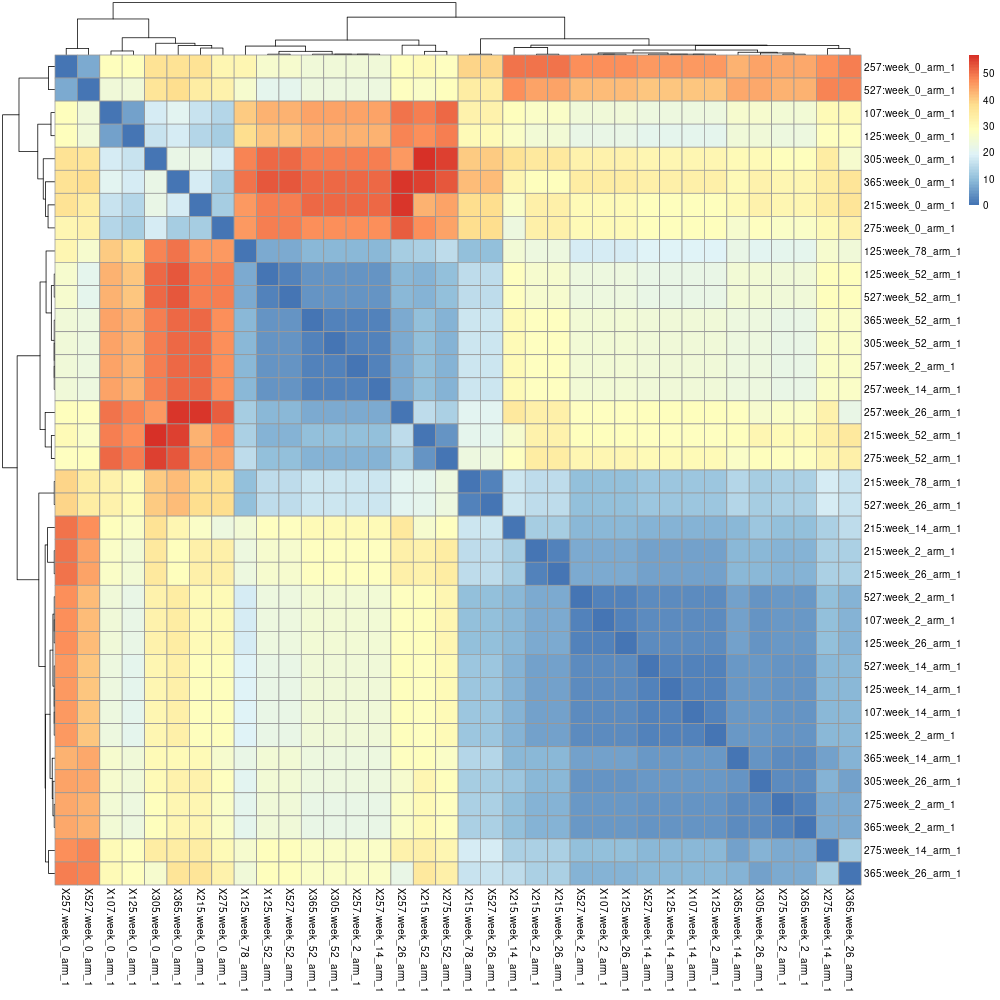
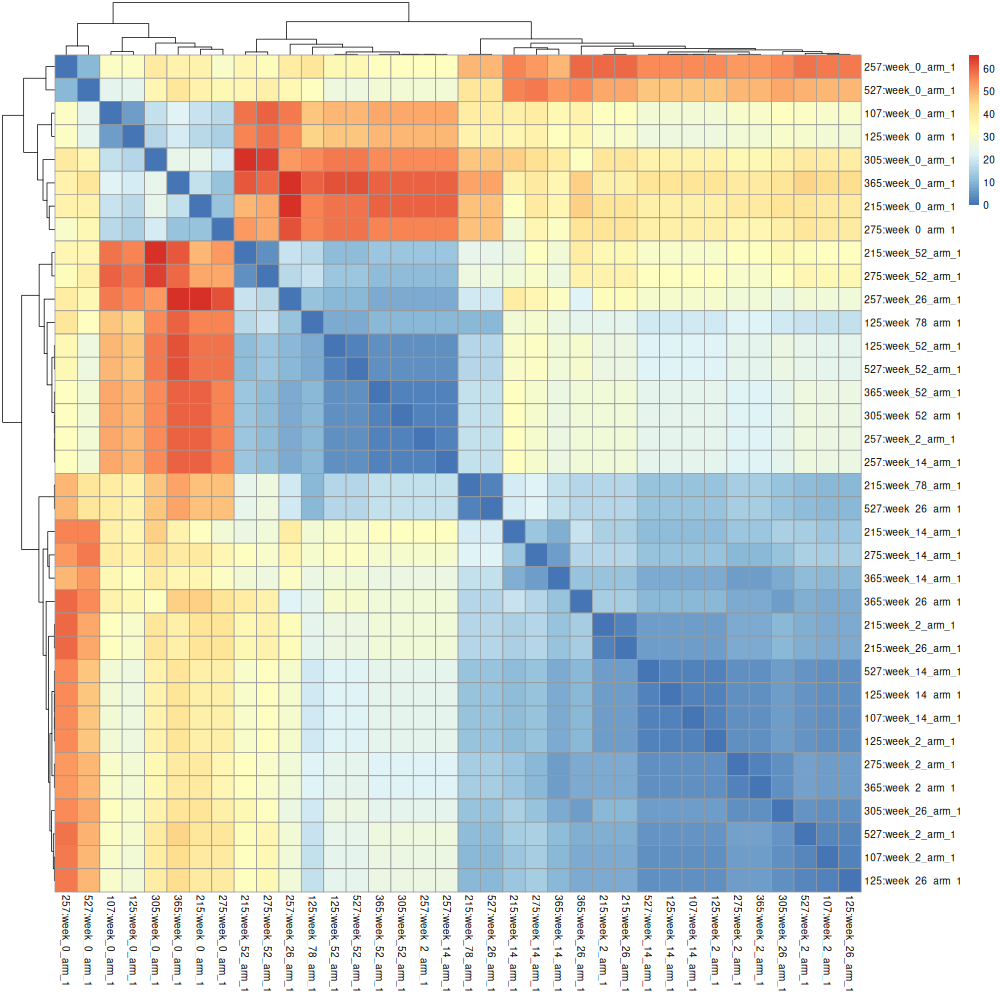
Update docs and share/r

diff --git a/docs/faq.md b/docs/faq.md
@@ -243,7 +243,7 @@ Frequently Asked Questions
 
     ```R
     # Load the matrix of Jaccard similarities from a text file
-    data <- as.matrix(read.table("matrix.txt", header = TRUE, row.names = 1))
+    data <- as.matrix(read.table("matrix.txt", header = TRUE, row.names = 1, check.names = FALSE))
     
     # Convert Jaccard similarity matrix to a dissimilarity (distance) matrix
     dissimilarity_matrix <- 1 - data
@@ -273,7 +273,7 @@ Frequently Asked Questions
      
     ```R
     # Load the matrix of Hamming distances from a text file
-    data <- as.matrix(read.table("matrix.txt", header = TRUE, row.names = 1))
+    data <- as.matrix(read.table("matrix.txt", header = TRUE, row.names = 1, check.names = FALSE))
     
     # Set n (extracted with --export option)
     n = 100
@@ -286,6 +286,32 @@ Frequently Asked Questions
     ```
 
     ##### last change 2024-04-15 by Manuel Rueda [:fontawesome-brands-github:](https://github.com/mrueda)
+
+??? faq "How can I convert a Hamming distance matrix to a standardized matrix??"
+
+    We recommed using `R` for this task. See example below:
+
+    Example `R` code:
+
+    ```R
+    # Load the matrix of Hamming distances from a text file
+    data <- as.matrix(read.table("matrix.txt", header = TRUE, row.names = 1, check.names = FALSE))
+
+    # Step 2: Extract numeric matrix
+    numeric_matrix <- as.matrix(data)  # Assumes non-numeric first column is already set as row.names
+
+    # Step 3: Standardize to z-scores
+    z_score_matrix <- scale(numeric_matrix)
+
+    # Step 4: Reassemble the matrix with labels
+    standardized_matrix <- as.data.frame(z_score_matrix)
+    row.names(standardized_matrix) <- row.names(data)
+
+    # Step 5: Save the standardized matrix
+    write.table(standardized_matrix, "standardized_matrix.txt", sep = "\t", quote = FALSE, col.names = NA)
+    ```
+
+    ##### last change 2024-11-26 by Manuel Rueda [:fontawesome-brands-github:](https://github.com/mrueda)
 
 ??? faq "Can I create network/graph plots from `Pheno-Ranker` output data?"
 
@@ -335,7 +361,7 @@ Frequently Asked Questions
                 install.packages("qgraph")
             }
             library(qgraph)
-            data <- as.matrix(read.table("matrix.txt", header = TRUE, row.names = 1, check.names=FALSE))
+            data <- as.matrix(read.table("matrix.txt", header = TRUE, row.names = 1, check.names = FALSE))
             
             # Start PNG device
             png(filename = "qgraph.png", width = 1000, height = 1000,
@@ -419,7 +445,7 @@ Frequently Asked Questions
                 install.packages("qgraph")
             }
             library(qgraph)
-            data <- as.matrix(read.table("matrix.txt", header = TRUE, row.names = 1, check.names=FALSE))
+            data <- as.matrix(read.table("matrix.txt", header = TRUE, row.names = 1, check.names = FALSE))
             
             # Start PNG device
             png(filename = "qgraph.png", width = 1000, height = 1000,
@@ -561,7 +587,7 @@ Frequently Asked Questions
 
 ??? faq "From where can I download the software?"
 
-    Should you opt for the **command-line interface**, we suggest obtaining the software from the [CPAN distribution](https://cnag-biomedical-informatics.github.io/pheno-ranker/usage/#method-1-from-cpan), which additionally includes the utility [bff-pxf-simulator](https://cnag-biomedical-informatics.github.io/pheno-ranker/bff-pxf-simulator).
+    Should you opt for the **command-line interface**, we suggest obtaining the software from the [CPAN distribution](https://cnag-biomedical-informatics.github.io/pheno-ranker/usage/#method-1-from-cpan), which additionally includes the utility [bff-pxf-simulator](https://cnag-biomedical-informatics.github.io/pheno-ranker/bff-pxf-simulator) and the `CSV` [importer](https://cnag-biomedical-informatics.github.io/pheno-ranker/csv-import). You can find addtional information [here](download-and-installation.md).
 
     ##### last change 2024-29-03 by Manuel Rueda [:fontawesome-brands-github:](https://github.com/mrueda)
 

diff --git a/docs/other-formats.md b/docs/other-formats.md
@@ -1,13 +1,13 @@
 !!! Hint "About other formats"
-    `Pheno-Ranker` leverages the data harmonization of **GA4GH** standards. However, to promote broader adoption, we also support other formats like raw `JSON/YAML` and `CSV`.
+    `Pheno-Ranker` leverages the data harmonization provided by **GA4GH** standards. However, to promote broader adoption, we also support other formats like raw `JSON/YAML` and `CSV`.
 
 === "YAML / JSON"
 
     `Pheno-Ranker` _a priori_ accepts as input "any" `JSON` or `YAML` array file. In order to do it, you'll need a **configuration file**. See a tutorial on how to use it [here](generic-json.md#moviepackets).
 
     !!! Bug "What do you mean by "any" `JSON` or `YAML`?"
-        `Pheno-Ranker` is capable of processing deeply nested data structures but has its limitations. If your data includes arrays nested more than one level deep, we recommend you that you tranform the 2D (or more) nested array elements into objects.
+        `Pheno-Ranker` is capable of processing deeply nested data structures but has its limitations. If your data includes arrays nested more than one level deep, we recommend you that you tranform the 2D (or more) nested array elements into 1D objects.
 
 === "CSV"
 
-    We developed an utility that converts **CSV** files to **JSON** and automatically creates the **configuration file** needed. See an example on how to use it [here](csv-import.md). 
+    We developed an utility that converts `CSV` files to `JSON` and automatically creates the **configuration file** needed. See an example on how to use it [here](csv-import.md). 

diff --git a/docs/federated-version-proposal.md b/docs/federated-version-proposal.md
@@ -123,7 +123,7 @@ In this proposal, we aim to explore the potential application of Pheno-Ranker wi
     
 === "Use Case B: Beacon v2 Network"
     
-    Currently, the `/individuals` endpoint from the Beacon v2 API can be queried, and as long as the user has appropriate access to the record-level data, the results can be parsed and saved in a text file (i.e., `BFF`). `Pheno-Ranker` can then be executed locally, either via the command-line interface (CLI) or through the Web App UI. While this approach works, it becomes cumbersome when the goal is to search for similar patients across multiple Beacon instances.  
+    Currently, the `/individuals` endpoint from the Beacon v2 API can be queried, and, as long as the user has appropriate access to the record-level data, the response can be parsed and saved as a text file (i.e., `BFF`). `Pheno-Ranker` can then be executed locally, either via the command-line interface (CLI) or through the Web App UI. While this approach works, it becomes cumbersome when the goal is to search for similar patients across multiple Beacon instances.  
 
     To facilitate `Pheno-Ranker`’s integration into the Beacon v2 API ecosystem, we propose two distinct pathways for query submission to enhance flexibility and security (both requiring `POST` requests):
     

diff --git a/docs/cohort.md b/docs/cohort.md
@@ -70,7 +70,7 @@ When using the `Pheno-ranker` command-line interface, simply ensure the [correct
         library("pheatmap")
     
         # Read in the input file as a matrix
-        data <- as.matrix(read.table("matrix.txt", header = TRUE, row.names = 1))
+        data <- as.matrix(read.table("matrix.txt", header = TRUE, row.names = 1, check.names = FALSE))
     
         # Save image
         png(filename = "heatmap.png", width = 1000, height = 1000,
@@ -97,7 +97,7 @@ When using the `Pheno-ranker` command-line interface, simply ensure the [correct
         library(ggrepel)
         
         # Read in the input file as a matrix 
-        data <- as.matrix(read.table("matrix.txt", header = TRUE, row.names = 1))
+        data <- as.matrix(read.table("matrix.txt", header = TRUE, row.names = 1, check.names = FALSE))
         
         #perform multidimensional scaling
         fit <- cmdscale(data, eig=TRUE, k=2)

diff --git a/docs/what-is-pheno-ranker.md b/docs/what-is-pheno-ranker.md
@@ -1,6 +1,6 @@
 # What is Pheno-Ranker?
 
-`Pheno-Ranker` is an **open-source** software toolkit for individual-level **comparison of phenotypic data**. As input, it accepts `JSON/YAML` data exchange formats from [Beacon v2](bff.md) and [Phenopackets v2](pxf.md) data models, as well as any data structure encoded in `JSON`, `YAML`, and `CSV` formats, extending its utility beyond the health data domain.
+`Pheno-Ranker` is an **open-source** software toolkit for _individual-level_ **comparison of phenotypic data**. As input, it accepts `JSON/YAML` data exchange formats from [Beacon v2](bff.md) and [Phenopackets v2](pxf.md) data models, as well as any data structure encoded in `JSON`, `YAML`, and `CSV` formats, extending its utility beyond the health data domain.
 
 <figure markdown>
  ![Pheno-Ranker](img/PR-logo.png){width="350"}

diff --git a/docs/README.md b/docs/README.md
@@ -1,11 +1,10 @@
-# Pheno-Ranker Documentation
-
-<figure markdown>
- ![Pheno-Ranker](img/PR-logo.png){width="350"}
- <figcaption>Pheno-Ranker logo</figcaption>
-</figure>
+# Pheno-Ranker Documentation 
 
 Welcome to the documentation for **Pheno-Ranker**!
 
+<figure markdown>
+ ![Pheno-Ranker](img/PR-logo.png){width="350"}
+</figure>
+
 !!! Abstract "About" 
-    This [documentation](https://cnag-biomedical-informatics.github.io/pheno-ranker) provides instructions and guidelines for installing and using a software tool designed for comparing data stored in JSON|YAML files (and CSV).
+    This [documentation](https://cnag-biomedical-informatics.github.io/pheno-ranker) provides instructions and guidelines for installing and using a software tool designed for comparing data stored in `JSON|YAML` files (and `CSV`).
